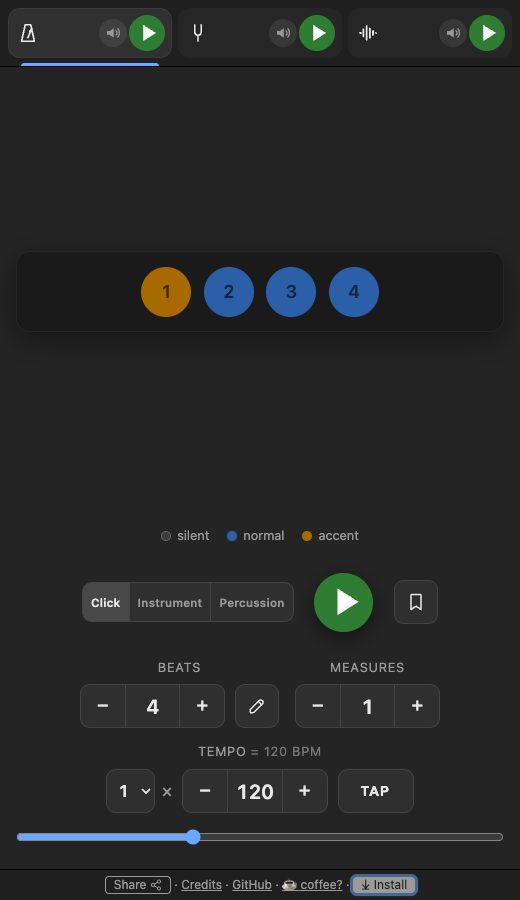
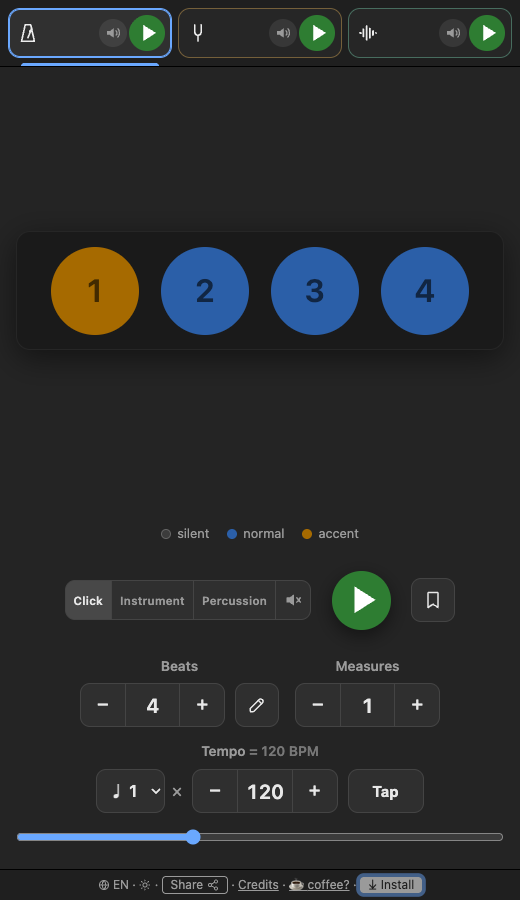
fix(install) iOS install message

diff --git a/app/strings.js b/app/strings.js
@@ -1,7 +1,9 @@
 // Home page strings. English for text written in index.html comes from the HTML itself (see i18n.js).
 I18N.add({
   en: {
-    installIos: 'To install: tap the Share button, then "Add to Home Screen".',
+    installIos1: 'Tap the Share button',
+    installIos2: 'Tap “Show more”',
+    installIos3: 'Tap “Add to Home Screen”',
     installFirefox: "Firefox on desktop can't install web apps. Use Chrome or Edge, or Firefox on Android (menu → Install).",
     installSafari: 'To install: File → Add to Dock.',
     installOther: 'To install: use the browser menu → "Install app" (or "Add to Home screen"). If the app is already installed, open it from your apps.',
@@ -29,7 +31,10 @@ I18N.add({
     coffeeShort: 'caffè?',
     install: 'Installa',
     loading: 'Caricamento…',
-    installIos: 'Per installare: tocca il pulsante Condividi, poi "Aggiungi alla schermata Home".',
+    installTitle: 'Installa Practice Room',
+    installIos1: 'Tocca il pulsante Condividi',
+    installIos2: 'Tocca “Mostra altro”',
+    installIos3: 'Tocca “Aggiungi alla schermata Home”',
     installFirefox: 'Firefox desktop non può installare app web. Usa Chrome o Edge, oppure Firefox su Android (menu → Installa).',
     installSafari: 'Per installare: File → Aggiungi al Dock.',
     installOther: 'Per installare: usa il menu del browser → "Installa app" (o "Aggiungi a schermata Home"). Se l\'app è già installata, aprila dalle tue app.',
@@ -65,7 +70,10 @@ I18N.add({
     coffeeShort: 'café ?',
     install: 'Installer',
     loading: 'Chargement…',
-    installIos: "Pour installer : touchez le bouton Partager, puis « Sur l'écran d'accueil ».",
+    installTitle: 'Installer Practice Room',
+    installIos1: 'Touchez le bouton Partager',
+    installIos2: 'Touchez « En voir plus »',
+    installIos3: "Touchez « Sur l'écran d'accueil »",
     installFirefox: "Firefox sur ordinateur ne peut pas installer d'applications web. Utilisez Chrome ou Edge, ou Firefox sur Android (menu → Installer).",
     installSafari: 'Pour installer : Fichier → Ajouter au Dock.',
     installOther: "Pour installer : menu du navigateur → « Installer l'application » (ou « Ajouter à l'écran d'accueil »). Si l'application est déjà installée, ouvrez-la depuis vos applications.",
@@ -101,7 +109,10 @@ I18N.add({
     coffeeShort: '¿café?',
     install: 'Instalar',
     loading: 'Cargando…',
-    installIos: 'Para instalar: toca el botón Compartir y luego "Añadir a pantalla de inicio".',
+    installTitle: 'Instalar Practice Room',
+    installIos1: 'Toca el botón Compartir',
+    installIos2: 'Toca “Ver más”',
+    installIos3: 'Toca “Añadir a pantalla de inicio”',
     installFirefox: 'Firefox de escritorio no puede instalar aplicaciones web. Usa Chrome o Edge, o Firefox en Android (menú → Instalar).',
     installSafari: 'Para instalar: Archivo → Añadir al Dock.',
     installOther: 'Para instalar: menú del navegador → "Instalar aplicación" (o "Añadir a pantalla de inicio"). Si la aplicación ya está instalada, ábrela desde tus aplicaciones.',
@@ -137,7 +148,10 @@ I18N.add({
     coffeeShort: 'Kaffee?',
     install: 'Installieren',
     loading: 'Wird geladen…',
-    installIos: 'Zum Installieren: Tippe auf Teilen und dann auf „Zum Home-Bildschirm“.',
+    installTitle: 'Practice Room installieren',
+    installIos1: 'Tippe auf Teilen',
+    installIos2: 'Tippe auf „Mehr anzeigen“',
+    installIos3: 'Tippe auf „Zum Home-Bildschirm“',
     installFirefox: 'Firefox für Desktop kann keine Web-Apps installieren. Nutze Chrome oder Edge oder Firefox auf Android (Menü → Installieren).',
     installSafari: 'Zum Installieren: Ablage → Zum Dock hinzufügen.',
     installOther: 'Zum Installieren: Browsermenü → „App installieren“ (oder „Zum Startbildschirm hinzufügen“). Ist die App schon installiert, öffne sie über deine Apps.',

diff --git a/app/index.html b/app/index.html
@@ -91,6 +91,18 @@
     <button type="button" class="dlg-btn dlg-close" id="shareClose" data-i18n="close">Close</button>
   </dialog>
 
+  <dialog id="installDialog" aria-labelledby="installTitle">
+    <div class="install-body">
+      <h2 id="installTitle" data-i18n="installTitle">Install Practice Room</h2>
+      <ol>
+        <li><span data-i18n="installIos1">Tap the Share button</span> <svg class="ios-share" viewBox="0 0 24 24" width="1.2em" height="1.2em" fill="none" stroke="currentColor" stroke-width="2" stroke-linecap="round" stroke-linejoin="round" aria-hidden="true"><path d="M8 9H6.5A1.5 1.5 0 0 0 5 10.5v9A1.5 1.5 0 0 0 6.5 21h11a1.5 1.5 0 0 0 1.5-1.5v-9A1.5 1.5 0 0 0 17.5 9H16"/><path d="M12 14V3M8 6.5 12 3l4 3.5"/></svg></li>
+        <li data-i18n="installIos2">Tap “Show more”</li>
+        <li data-i18n="installIos3">Tap “Add to Home Screen”</li>
+      </ol>
+    </div>
+    <button type="button" class="dlg-btn dlg-close" id="installClose" data-i18n="close">Close</button>
+  </dialog>
+
   <script src="i18n.js" defer></script>
   <script src="strings.js" defer></script>
   <script src="app.js" defer></script>

diff --git a/app/app.js b/app/app.js
@@ -301,6 +301,9 @@ window.addEventListener('appinstalled', () => {
   installBtn.hidden = true;
   installBtn.previousElementSibling.hidden = true;
 });
+const installDialog = document.getElementById('installDialog');
+document.getElementById('installClose').addEventListener('click', () => installDialog.close());
+installDialog.addEventListener('click', (e) => { if (e.target === installDialog) installDialog.close(); });   // backdrop
 installBtn.addEventListener('click', async () => {
   if (deferredInstall) {
     const ev = deferredInstall;
@@ -311,8 +314,8 @@ installBtn.addEventListener('click', async () => {
   }
   const ua = navigator.userAgent;
   const ios = /iPad|iPhone|iPod/.test(ua) || (navigator.platform === 'MacIntel' && navigator.maxTouchPoints > 1);
-  alert(t(ios ? 'installIos'
-    : /Firefox/.test(ua) ? 'installFirefox'
+  if (ios) { installDialog.showModal(); return; }   // a dialog, not an alert: the steps show the iOS share icon
+  alert(t(/Firefox/.test(ua) ? 'installFirefox'
     : /Safari/.test(ua) && !/Chrome|Chromium|Edg/.test(ua) ? 'installSafari'
     : 'installOther'));
 });

diff --git a/app/style.css b/app/style.css
@@ -330,6 +330,19 @@ body {
 .dlg-close { flex: none; margin: 8px 20px 16px; }
 
 
+/* ---------- Install dialog (iOS steps) ---------- */
+#installDialog {
+  width: min(92vw, 360px); padding: 0; border: 1px solid var(--line); border-radius: 14px;
+  background: var(--tab-active); color: var(--text); box-shadow: 0 20px 60px var(--shadow);
+}
+#installDialog[open] { display: flex; flex-direction: column; }
+#installDialog::backdrop { background: rgba(0, 0, 0, .65); }
+.install-body { padding: 18px 20px 6px; }
+.install-body h2 { margin: 0 0 12px; font-size: 1.15rem; text-align: center; }
+.install-body ol { margin: 0; padding-left: 1.4em; line-height: 1.5; }
+.install-body li + li { margin-top: 8px; }
+.ios-share { vertical-align: -.25em; color: var(--link); }
+
 /* ---------- Share dialog (QR code) ---------- */
 #shareDialog {
   width: min(92vw, 360px); padding: 0; border: 1px solid var(--line); border-radius: 14px;

diff --git a/app/sw.js b/app/sw.js
@@ -3,7 +3,7 @@
 // background, so edits show up on the next launch. Bump VERSION to force a clean re-cache
 // (e.g. after adding or removing files).
 
-const VERSION = 'v5.13';
+const VERSION = 'v5.14';
 const CACHE = `practice-room-${VERSION}`;
 
 const FILES = [

diff --git a/README.md b/README.md
@@ -11,6 +11,8 @@ Use it online or install: <https://mpascucci.github.io/practice-room/app>
   &nbsp;&nbsp;
   <a href="screenshots/drone.png"><img src="screenshots/drone.png" alt="Drone" width="150"></a>
   &nbsp;&nbsp;
+  <a href="screenshots/tuner.png"><img src="screenshots/tuner.png" alt="Tuner" width="150"></a>
+  &nbsp;&nbsp;
   <a href="screenshots/player.png"><img src="screenshots/player.png" alt="Player" width="150"></a>
 </p>
 
